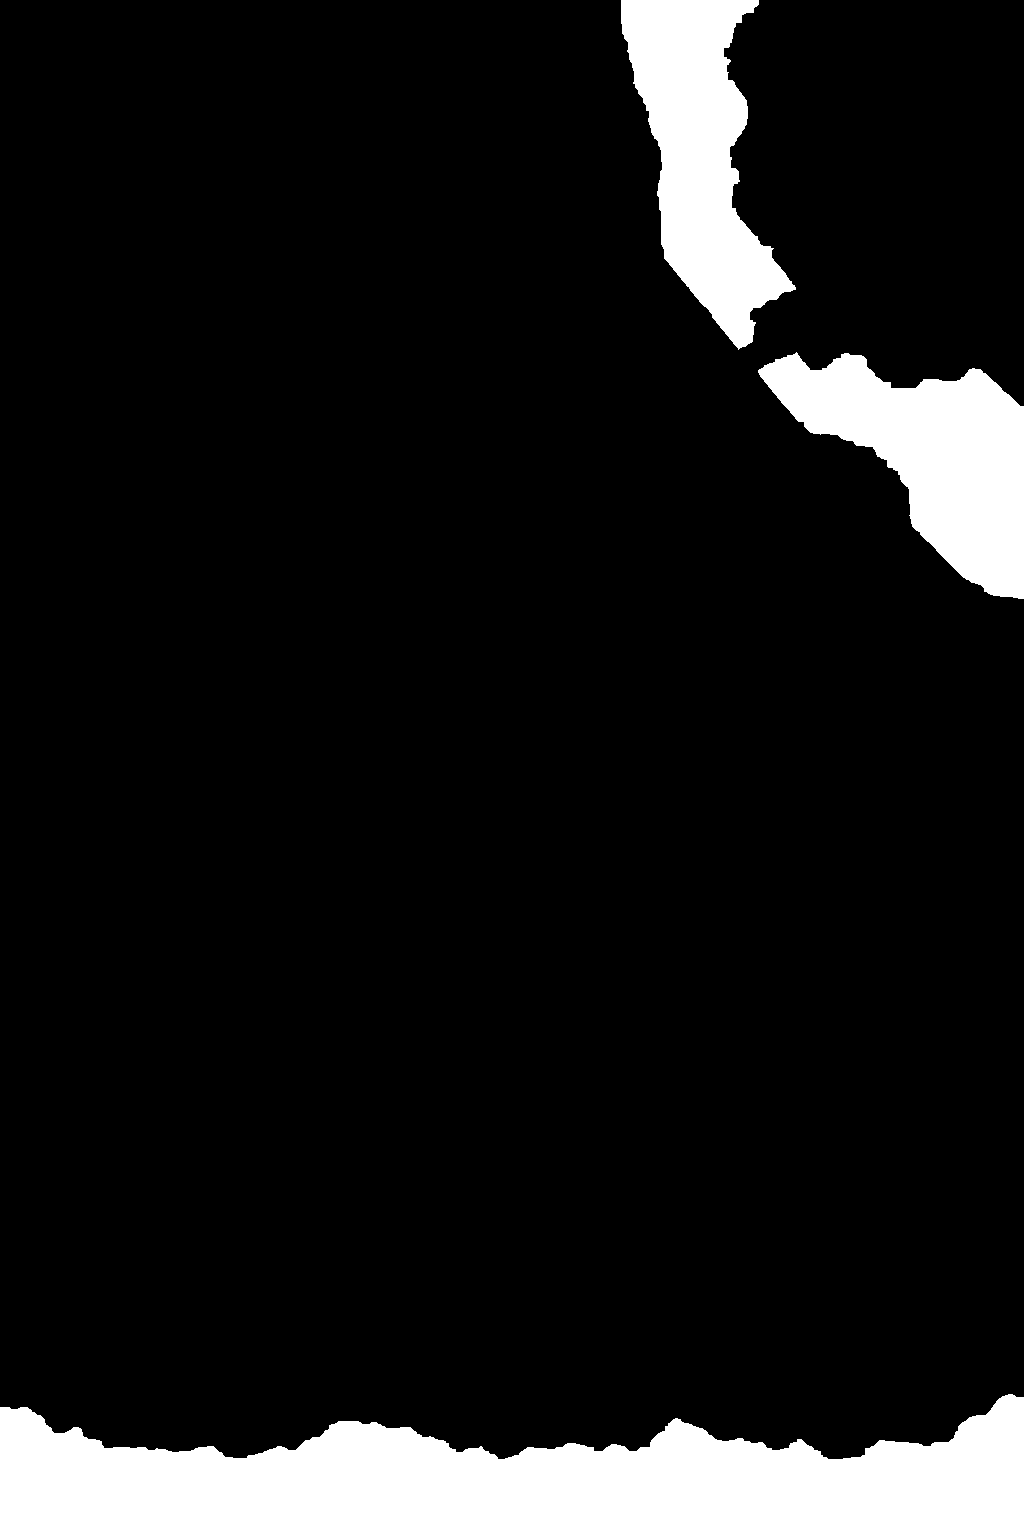
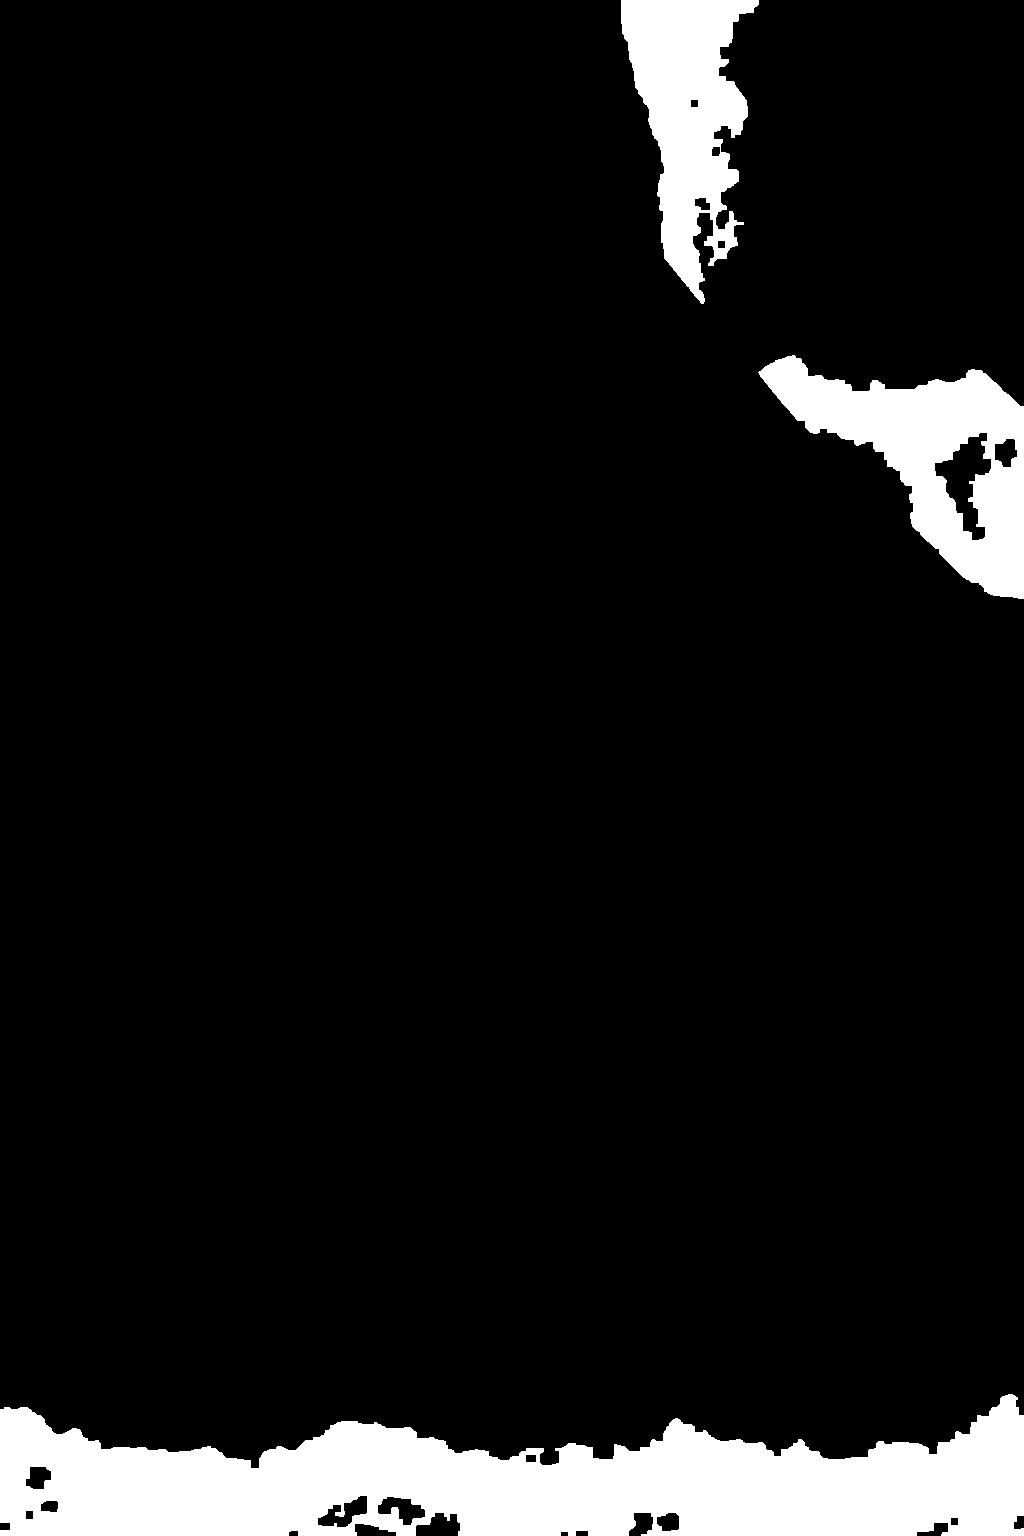
Farm Map v2: water mask fixes (bridges, dry/wet polys), deco spots off water, corner sprite redos
Claude-Session: https://claude.ai/code/session_0184EuodxDTjjMvWbvHuC9JY

diff --git a/output/farm-map-v2/_pipeline/valleys/water_mask.py b/output/farm-map-v2/_pipeline/valleys/water_mask.py
@@ -52,6 +52,24 @@ for p in m['plotRings'].values():
 bgd, fgd = np.zeros((1, 65), np.float64), np.zeros((1, 65), np.float64)
 cv2.grabCut(img, mask, None, bgd, fgd, 6, cv2.GC_INIT_WITH_MASK)
 water = np.where((mask == cv2.GC_FGD) | (mask == cv2.GC_PR_FGD), 255, 0).astype(np.uint8)
+# bridges, planks and banks that GrabCut pulled in with the strokes: keep only water-coloured
+# pixels (near the median colour of the cut water), so they do not ripple
+cut = lab[water > 0]
+if len(cut):
+    med = np.median(cut, axis=0)
+    spread = np.percentile(np.linalg.norm(cut - med, axis=1), 70)
+    far = np.linalg.norm(lab - med, axis=2) > max(cfg.get('keep', 24), spread * 1.25)
+    water[far] = 0
+    water = cv2.morphologyEx(water, cv2.MORPH_OPEN, np.ones((3, 3), np.uint8))
+# hand-drawn water (lakes the colour filter would drop) and dry areas (bridges, wheels)
+for p in cfg.get('wet', []):
+    cv2.fillPoly(water, [np.array(p, np.int32)], 255)
+for p in cfg.get('dry', []):
+    cv2.fillPoly(water, [np.array(p, np.int32)], 0)
+# bridges: wherever a walkway crosses the water, the deck stays still
+for line in m['walkways']:
+    pts = np.array([[sc['left'] + x * sc['width'], sc['top'] + y * sc['height']] for x, y in line], np.int32)
+    cv2.polylines(water, [pts], False, 0, int(cfg.get('bridge', 26)))
 # keep only blobs that contain a seed / stroke / poly; close small holes
 water = cv2.morphologyEx(water, cv2.MORPH_CLOSE, np.ones((7, 7), np.uint8))
 n, lbl = cv2.connectedComponents(water)
